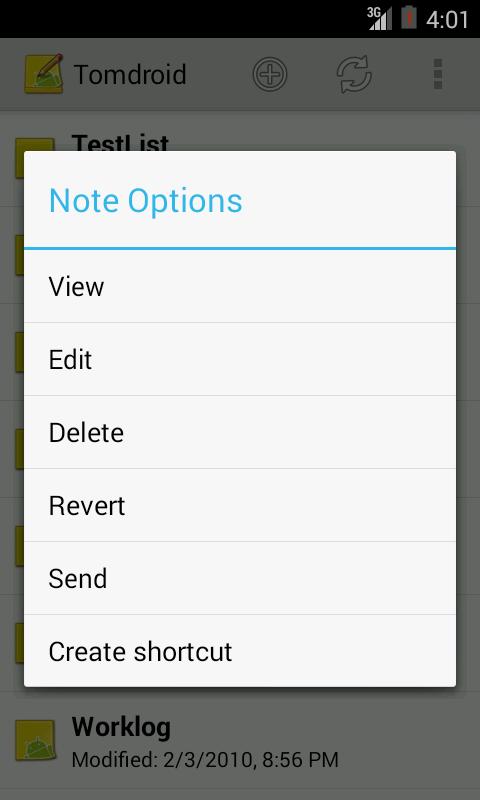
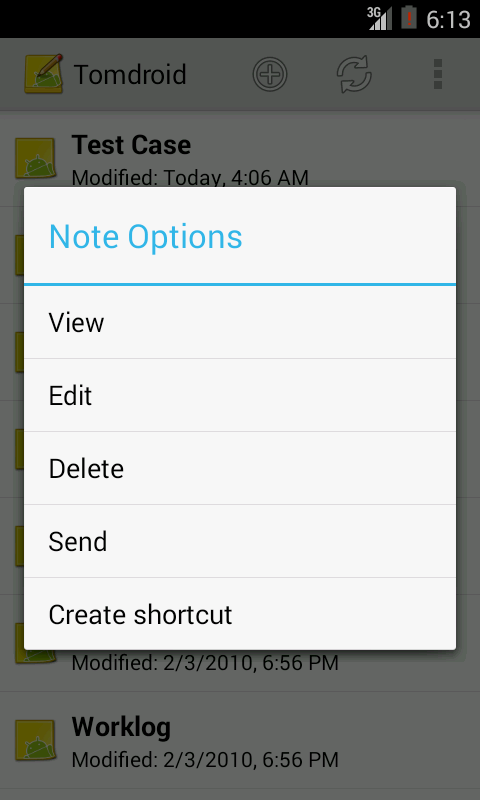
revert ist not working for sdcard or online sync - disable it for now.

diff --git a/src/org/tomdroid/ui/Tomdroid.java b/src/org/tomdroid/ui/Tomdroid.java
@@ -420,9 +420,9 @@ public class Tomdroid extends ActionBarListActivity {
 			case R.id.tags:
 				showDialog(DIALOG_VIEW_TAGS);
 				break;
-			case R.id.revert:
-				this.revertNote(dialogNote.getGuid());
-				break;
+			//case R.id.revert:
+			//	this.revertNote(dialogNote.getGuid());
+			//	break;
 			case R.id.delete:
 				dialogString = dialogNote.getGuid();
 				dialogInt = dialogPosition;
